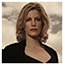
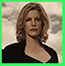
changed border colors

Changed region(s): [[0.0, 0.0, 1.0, 1.0]]

diff --git a/app.js b/app.js
@@ -249,7 +249,7 @@ function Game(){
 							createImgTag('images/the_wire/kima_queen_white.jpg', $td);
 							break;
 							case 'k':
-							createImgTag('images/the_wire/omar_king_black.jpg', $td);
+							createImgTag('images/the_wire/omar_king_white.jpg', $td);
 							break;
 						}
 					}
